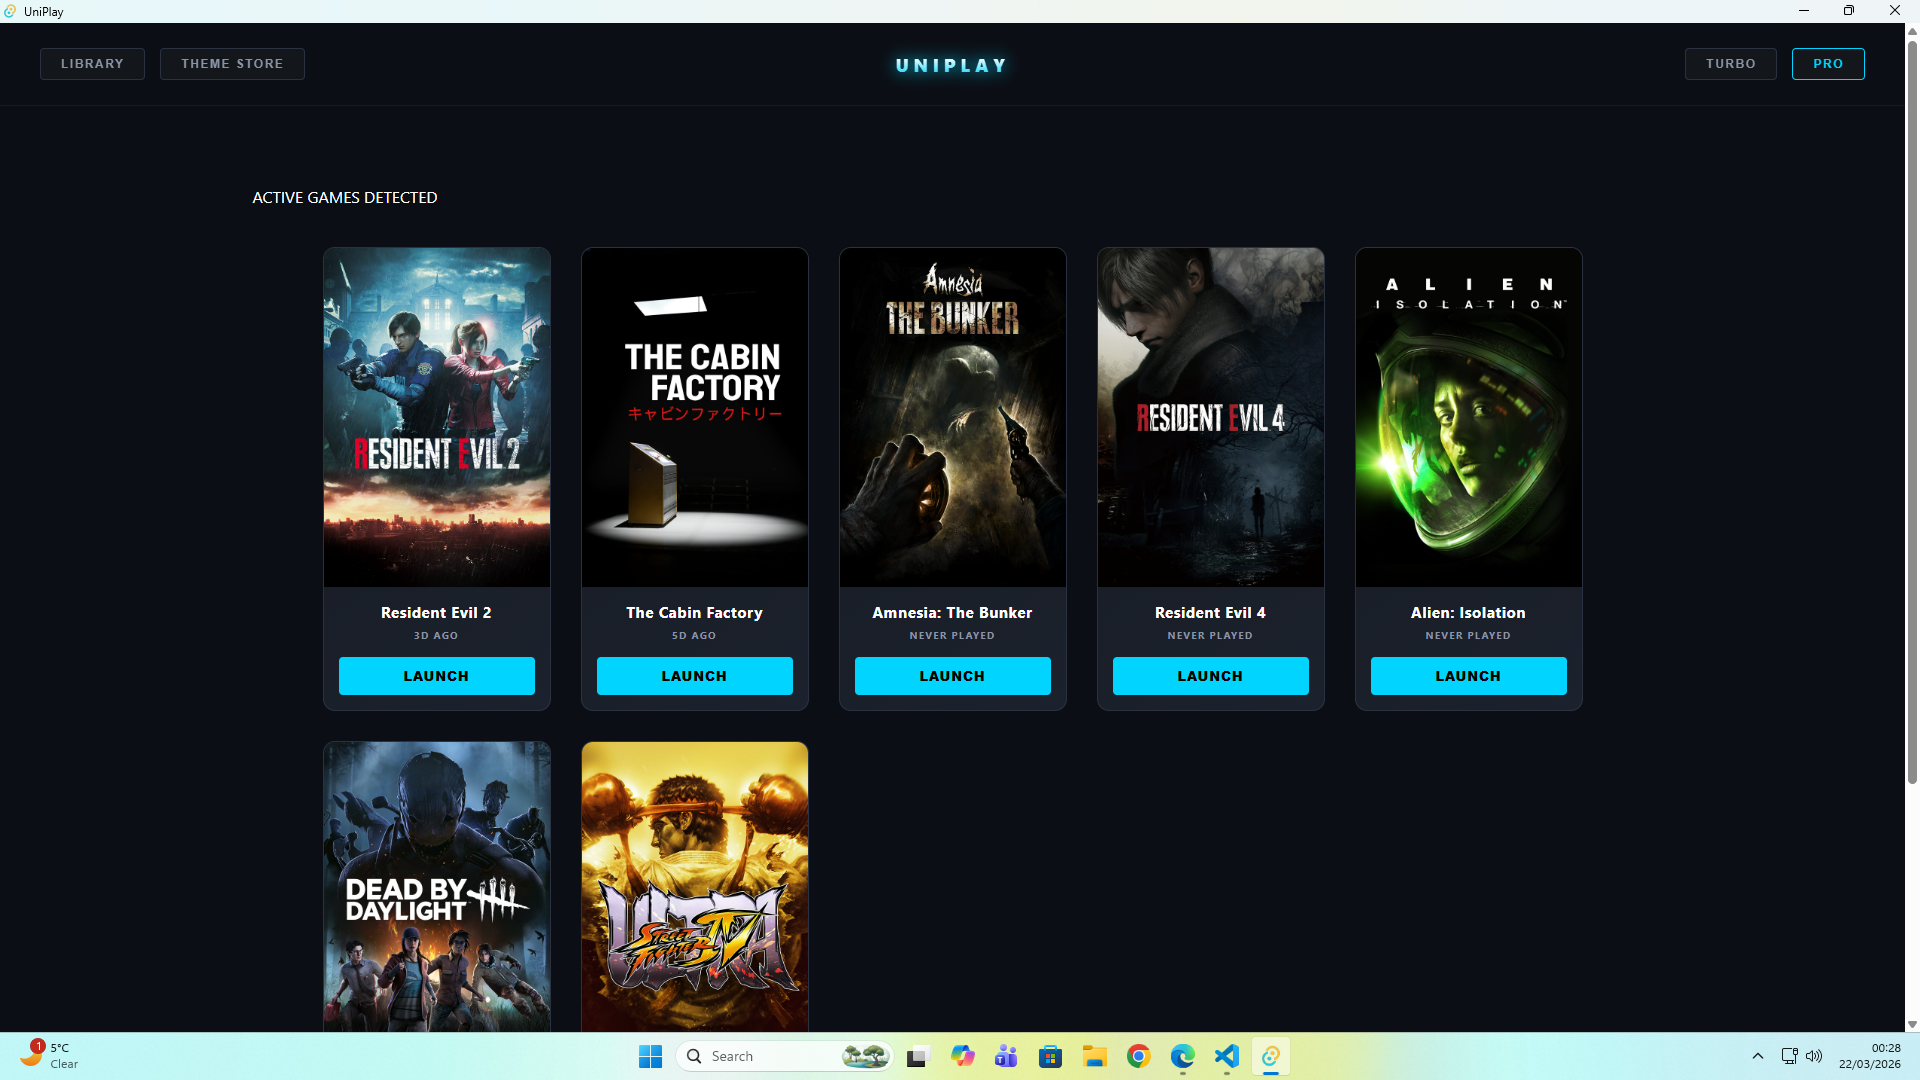
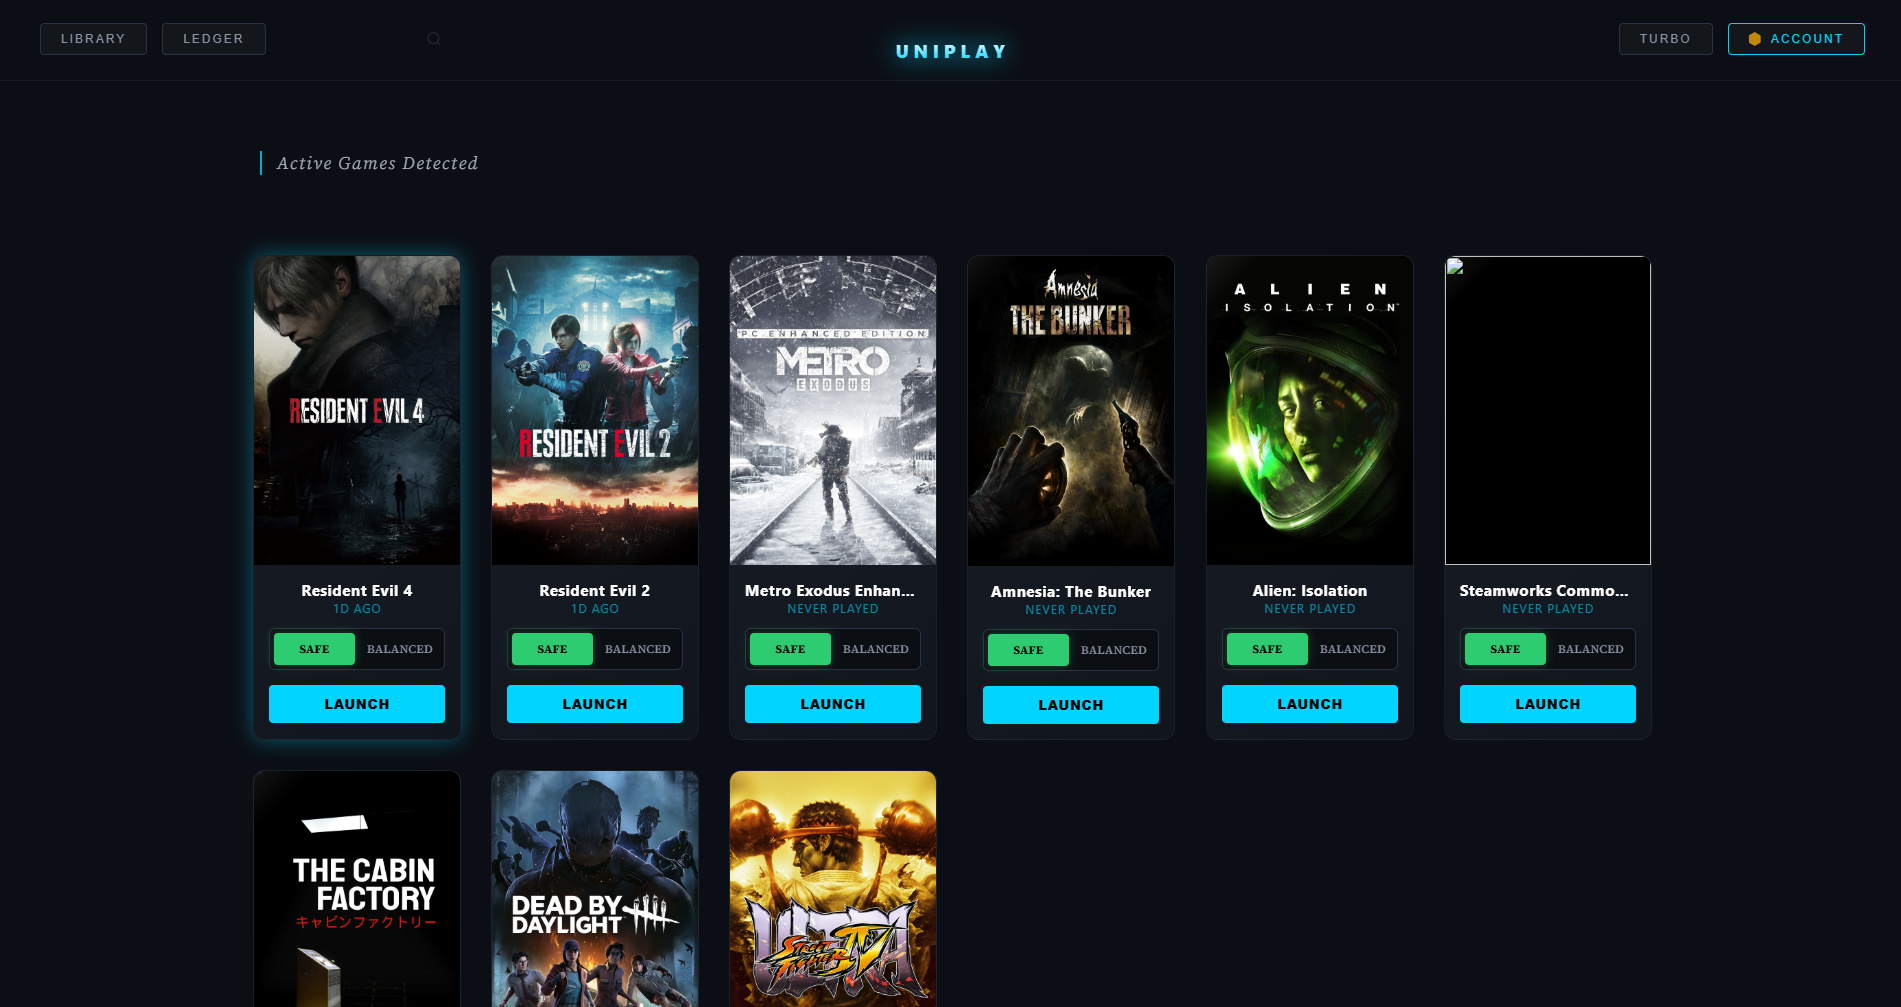
Update: Removed Vault logic, updated Pro feature parity, and refreshed dashboard visuals

diff --git a/privacy.html b/privacy.html
@@ -3,80 +3,83 @@
 <head>
     <meta charset="UTF-8">
     <meta name="viewport" content="width=device-width, initial-scale=1.0">
-    <title>UniPlay | Full Privacy Notice</title>
+    <title>UniPlay | Privacy Policy</title>
+    <link href="https://fonts.googleapis.com/css2?family=Source+Serif+4:ital,opsz,wght@0,8..60,200..900;1,8..60,200..900&family=Inter:wght@400;700;900&family=JetBrains+Mono&display=swap" rel="stylesheet">
     <style>
-        body { background-color: #0B0C10 !important; color: #C5C6C7; font-family: 'Inter', 'Segoe UI', sans-serif; line-height: 1.8; padding: 80px 20px; max-width: 850px; margin: 0 auto; }
-        h1 { color: #FFFFFF; font-size: 2.5rem; margin-bottom: 10px; }
-        h2 { color: #66FCF1; border-bottom: 1px solid rgba(102, 252, 241, 0.2); padding-bottom: 10px; margin-top: 50px; font-size: 1.4rem; text-transform: uppercase; letter-spacing: 1px; }
-        h3 { color: #FFFFFF; font-size: 1.1rem; margin-top: 30px; margin-bottom: 10px; }
-        p { margin-bottom: 20px; opacity: 0.9; }
-        strong { color: #FFFFFF; font-weight: 700; }
-        .back-link { color: #66FCF1; text-decoration: none; font-weight: bold; margin-bottom: 40px; display: inline-block; transition: 0.3s; }
+        body { 
+            background-color: #0b0e14; 
+            color: #8a94a6; 
+            font-family: 'Inter', sans-serif; 
+            line-height: 1.8; 
+            padding: 80px 20px; 
+            max-width: 800px; 
+            margin: 0 auto; 
+        }
+        h1, h2, h3 { font-family: 'Source Serif 4', serif; color: #fff; font-weight: 400; }
+        h1 { font-size: 3rem; margin-bottom: 40px; border-bottom: 1px solid rgba(255,255,255,0.1); padding-bottom: 20px; }
+        h2 { color: #00d4ff; font-style: italic; margin-top: 50px; border-bottom: 1px solid rgba(0, 212, 255, 0.1); padding-bottom: 10px; }
+        .back-link { color: #00d4ff; font-family: 'JetBrains Mono'; font-size: 0.8rem; text-transform: uppercase; text-decoration: none; margin-bottom: 40px; display: block; transition: 0.3s; }
         .back-link:hover { opacity: 0.7; }
-        ul { padding-left: 20px; margin-bottom: 25px; }
+        strong { color: #fff; }
+        ul { padding-left: 20px; }
         li { margin-bottom: 12px; }
-        .date { color: #45A29E; font-style: italic; margin-bottom: 40px; display: block; }
-        .box { background: #1F2833; padding: 20px; border-radius: 8px; border-left: 4px solid #66FCF1; margin: 20px 0; }
+        .date { color: #45A29E; font-style: italic; display: block; margin-bottom: 10px; }
+        .section-box { background: rgba(255, 255, 255, 0.02); padding: 30px; border-radius: 12px; border: 1px solid rgba(255, 255, 255, 0.05); margin: 30px 0; }
     </style>
 </head>
 <body>
     <a href="index.html" class="back-link">← Return to UniPlay</a>
-    <h1>Customer Privacy Notice</h1>
-    <span class="date">Last updated: March 30, 2026</span>
+    <h1>Privacy Policy</h1>
+    <span class="date">Last Updated: April 19, 2026</span>
 
-    <p>This privacy notice tells you what to expect us to do with your personal information. We are <strong>UniPlay LTD</strong>, registered in England and Wales.</p>
+    <p>This Privacy Policy explains how <strong>UniPlay LTD</strong> ("we," "us," or "our") collects, uses, and protects your information when you use the UniPlay desktop utility. We are committed to protecting your privacy in accordance with the <strong>UK General Data Protection Regulation (UK GDPR)</strong> and the Data Protection Act 2018.</p>
 
-    <h2>1. Contact Details</h2>
-    <p><strong>Post:</strong> Hoxton Mix Ltd, 86-90 Paul Street, LONDON, EC2A 4NE, GB</p>
-    <p><strong>Email:</strong> supportuniplay@gmail.com</p>
-
-    <h2>2. Information We Collect, Use, and Why</h2>
-    
-    <h3>Services and Goods</h3>
-    <p>We collect or use the following information to provide services, including software licensing:</p>
-    <ul>
-        <li>Names and contact details</li>
-        <li>Purchase or account history</li>
-        <li>Website user information (user journeys and cookie tracking)</li>
-    </ul>
-
-    <h3>Crime Prevention & Security</h3>
-    <p>We collect or use the following information to prevent, detect, or prosecute crimes (including IP theft and fraud):</p>
-    <ul>
-        <li>Names and contact information</li>
-        <li>Financial transaction information</li>
-        <li><strong>Publicly available Steam ID</strong></li>
-        <li><strong>Unique Hardware ID</strong></li>
-    </ul>
-
-    <h3>Legal Requirements & Claims</h3>
-    <p>We collect information to comply with legal obligations (tax/HMRC) and for dealing with queries or claims, including correspondence and financial records.</p>
-
-    <h2>3. Lawful Bases and Data Protection Rights</h2>
-    <p>Under UK GDPR, we rely on the following lawful bases:</p>
-    <ul>
-        <li><strong>Consent:</strong> Where you have given clear permission.</li>
-        <li><strong>Contract:</strong> Necessary to fulfill our agreement with you.</li>
-        <li><strong>Legal Obligation:</strong> Necessary to comply with the law.</li>
-        <li><strong>Legitimate Interests:</strong> Specifically protecting our intellectual property and providing customer support.</li>
-    </ul>
-
-    <div class="box">
-        <h3>Your Data Rights</h3>
-        <p>You have the right of <strong>access</strong>, <strong>rectification</strong>, <strong>erasure</strong>, <strong>restriction of processing</strong>, <strong>objection</strong>, and <strong>data portability</strong>. If we rely on consent, you can withdraw it at any time.</p>
+    <div class="section-box">
+        <h2>1. Information We Collect</h2>
+        <p>To provide high-performance optimization and analytics, we collect the following data:</p>
+        <ul>
+            <li><strong>Account Information:</strong> Name and email address provided during the purchase process via our Merchant of Record.</li>
+            <li><strong>Unique Hardware Identifier (UUID):</strong> A non-reversible hash of your hardware components used to verify license authenticity and prevent unauthorized distribution.</li>
+            <li><strong>Steam ID (Public):</strong> Used to synchronize game library metadata and provide per-game performance profiles.</li>
+            <li><strong>Technical Analytics:</strong> Data regarding RAM reclamation, process priority shifts, and session duration to populate your "Ledger" dashboard.</li>
+        </ul>
     </div>
 
-    <h2>4. Where We Get Information From</h2>
-    <p>Directly from you, and from third parties including <strong>Cookies/Analytics</strong> and our Merchant of Record, <strong>Lemon Squeezy</strong>, who provides transaction details following a purchase.</p>
+    <h2>2. Lawful Basis for Processing</h2>
+    <p>Under UK GDPR, we process your data based on the following legal grounds:</p>
+    <ul>
+        <li><strong>Contractual Necessity:</strong> To provide the Pro features (Analytics, Ledger, Profiles) you have subscribed to.</li>
+        <li><strong>Legitimate Interests:</strong> To protect our intellectual property (the Decoupled Bridge Architecture) and ensure software security via hardware-locked licensing.</li>
+    </ul>
 
-    <h2>5. Retention and Sharing</h2>
-    <p>We keep license data for the duration of your active license, financial records for <strong>6 years</strong> (HMRC), and support emails for <strong>2 years</strong>.</p>
-    <p>We share data with <strong>Lemon Squeezy, LLC</strong> in the <strong>United States</strong>. This transfer complies with UK law via the <strong>UK-US Data Bridge (Adequacy Regulations)</strong>.</p>
+    <h2>3. Data Retention & Third Parties</h2>
+    <p>We do not sell your data. We only share information with essential service providers:</p>
+    <ul>
+        <li><strong>Lemon Squeezy, LLC:</strong> Our Merchant of Record handles all payment processing. UniPlay LTD does not store or see your credit card or billing details.</li>
+        <li><strong>Security:</strong> Hardware IDs are stored as long as an account is active to prevent license fraud.</li>
+    </ul>
 
-    <h2>6. How to Complain</h2>
-    <p>If you have concerns, contact us first. You can also complain to the ICO:</p>
-    <p>Information Commissioner’s Office, Wycliffe House, Water Lane, Wilmslow, SK9 5AF</p>
-    <p>Helpline: 0303 123 1113 | Website: <a href="https://www.ico.org.uk/make-a-complaint" style="color: #66FCF1;">ico.org.uk</a></p>
+    <h2>4. Your Rights</h2>
+    <p>As a UK resident, you have the following rights regarding your data:</p>
+    <ul>
+        <li>The right to <strong>access</strong> the personal data we hold about you.</li>
+        <li>The right to <strong>rectification</strong> if your data is inaccurate.</li>
+        <li>The right to <strong>erasure</strong> ("right to be forgotten") of your account and associated analytics.</li>
+        <li>The right to <strong>restrict</strong> or object to certain processing activities.</li>
+    </ul>
 
+    <h2>5. Data Security</h2>
+    <p>Your analytics data is processed locally by the UniPlay Scout Thread (Rust) before being synchronized with your account. We implement industry-standard encryption to protect data in transit between the client and our servers.</p>
+
+    <h2>6. Contact & Controller</h2>
+    <p>UniPlay LTD is the data controller for your information.</p>
+    <p><strong>UniPlay LTD</strong><br>
+    Hoxton Mix Ltd, 86-90 Paul Street<br>
+    London, EC2A 4NE, United Kingdom<br>
+    Email: <strong>supportuniplay@gmail.com</strong></p>
+
+    <footer style="margin-top: 80px; opacity: 0.5; font-size: 0.8rem; text-align: center;">
+        <p>&copy; 2026 UniPlay LTD. Registered in England & Wales (No. 17099417).</p>
+    </footer>
 </body>
 </html>

diff --git a/tos.html b/tos.html
@@ -6,95 +6,73 @@
     <title>UniPlay | Terms of Service</title>
     <style>
         body { 
-            background-color: #0B0C10 !important; 
-            color: #C5C6C7; 
-            font-family: 'Inter', 'Segoe UI', sans-serif; 
+            background-color: #0b0e14; 
+            color: #8a94a6; 
+            font-family: 'Inter', sans-serif; 
             line-height: 1.8; 
             padding: 80px 20px; 
-            max-width: 850px; 
+            max-width: 800px; 
             margin: 0 auto; 
         }
-        h1 { color: #FFFFFF; font-size: 2.5rem; margin-bottom: 10px; }
-        h2 { 
-            color: #66FCF1; 
-            border-bottom: 1px solid rgba(102, 252, 241, 0.2); 
-            padding-bottom: 10px; 
-            margin-top: 50px; 
-            font-size: 1.4rem; 
-            text-transform: uppercase; 
-            letter-spacing: 1px; 
-        }
-        h3 { color: #FFFFFF; font-size: 1.1rem; margin-top: 30px; margin-bottom: 10px; }
-        p { margin-bottom: 20px; opacity: 0.9; }
-        strong { color: #FFFFFF; font-weight: 700; }
-        .back-link { color: #66FCF1; text-decoration: none; font-weight: bold; margin-bottom: 40px; display: inline-block; transition: 0.3s; }
+        h1, h2, h3 { font-family: 'Source Serif 4', serif; color: #fff; font-weight: 400; }
+        h1 { font-size: 3rem; margin-bottom: 40px; border-bottom: 1px solid rgba(255,255,255,0.1); padding-bottom: 20px; }
+        h2 { color: #00d4ff; font-style: italic; margin-top: 50px; border-bottom: 1px solid rgba(0, 212, 255, 0.1); padding-bottom: 10px; }
+        h3 { color: #FFFFFF; font-size: 1.1rem; margin-top: 30px; }
+        .back-link { color: #00d4ff; font-family: 'JetBrains Mono'; font-size: 0.8rem; text-transform: uppercase; text-decoration: none; margin-bottom: 40px; display: block; transition: 0.3s; }
         .back-link:hover { opacity: 0.7; }
-        ul { padding-left: 20px; margin-bottom: 25px; }
-        li { margin-bottom: 12px; }
-        .date { color: #45A29E; font-style: italic; margin-bottom: 40px; display: block; }
+        strong { color: #fff; }
         .alert-box { 
-            background: rgba(102, 252, 241, 0.05); 
+            background: rgba(0, 212, 255, 0.05); 
             padding: 25px; 
             border-radius: 8px; 
-            border: 1px solid rgba(102, 252, 241, 0.2); 
+            border: 1px solid rgba(0, 212, 255, 0.2); 
             margin: 30px 0; 
         }
+        ul { padding-left: 20px; }
+        li { margin-bottom: 10px; }
+        .date { color: #45A29E; font-style: italic; display: block; margin-bottom: 10px; }
     </style>
 </head>
 <body>
     <a href="index.html" class="back-link">← Return to UniPlay</a>
     <h1>Terms of Service</h1>
-    <span class="date">Last Updated: April 2, 2026</span>
+    <span class="date">Last Updated: April 19, 2026</span>
 
-    <p>Welcome to UniPlay. These Terms of Service ("Terms") govern your use of the UniPlay desktop utility and services (the "Service"), operated by <strong>UniPlay LTD</strong> ("Company," "we," "us," or "our"), a company registered in England and Wales (Company No. 17099417).</p>
-    
     <div class="alert-box">
-        <p><strong>Agreement:</strong> By accessing or using the Service, you agree to be bound by these Terms. If you do not agree, please cease use of the Service immediately.</p>
+        <p><strong>Agreement:</strong> Welcome to UniPlay. These Terms of Service ("Terms") govern your use of the UniPlay desktop utility operated by <strong>UniPlay LTD</strong> (Company No. 17099417), registered in England and Wales. By accessing the Service, you agree to be bound by these Terms.</p>
     </div>
 
     <h2>1. The Service</h2>
-    <p>UniPlay provides a high-performance gaming library utility featuring technical optimizations (the "Scout Thread"), CSS-based UI customization ("Theme Store"), and digital reward systems ("Rarity Drops").</p>
+    <p>UniPlay provides a high-performance gaming utility featuring resource optimization (the "Scout Thread"), advanced system-level analytics (the "Ledger"), and per-game performance profiles.</p>
 
-    <h2>2. UniPlay Pro Subscriptions</h2>
-    <p>We offer UniPlay Pro via both Monthly and Lifetime subscription tiers. Both tiers provide identical access to the following premium features:</p>
+    <h2>2. Subscription Tiers & Feature Parity</h2>
+    <p>We offer Pro access via <strong>Monthly</strong> (recurring) and <strong>Lifetime</strong> (one-time) tiers. Both tiers unlock <strong>identical premium features</strong>, including:</p>
     <ul>
-        <li><strong>Custom System Themes:</strong> Access to a curated library of advanced technical visual styles and UI enhancements.</li>
-        <li><strong>Enhanced Reward Rates:</strong> A statistical multiplier applied to the UniPlay Drop Table, increasing the probability of receiving Rare, Epic, and Sovereign tier UI modifications.</li>
+        <li><strong>Advanced Ledger Analytics:</strong> Granular data on system resource reclamation and hardware efficiency.</li>
+        <li><strong>Per-Game Profiles:</strong> Customized optimization settings for individual titles in your library.</li>
+        <li><strong>Session History:</strong> Comprehensive tracking of performance gains and playtime.</li>
+        <li><strong>Account Status:</strong> Recognition of Sovereign status within the UniPlay interface.</li>
     </ul>
 
-    <h2>3. Reward Systems & Social Features</h2>
-    <h3>Nature of Rewards</h3>
-    <p>UniPlay "Drops" (Accent Colors, Custom Icons, Animated UI States) are digital-only cosmetic enhancements for the UniPlay interface. They have no real-world monetary value.</p>
-    
-    <h3>Probability & Steam ID</h3>
-    <p>By using the Service, you acknowledge that rewards are distributed via a randomized system. "Pro" status increases these probabilities but does not guarantee specific results. To facilitate social features and reward verification, UniPlay may utilize your <strong>publicly available Steam ID</strong>. No private Steam credentials or payment data are ever accessed or stored by UniPlay LTD.</p>
-    
-    <h3>Social Sharing</h3>
-    <p>Users may use the "Vault" system to equip rewards and share their "High-Status" visual recognition with friends. Harassment or abuse of social sharing features is grounds for account termination.</p>
-
-    <h2>4. Payments and Merchant of Record</h2>
+    <h2>3. Payments and Merchant of Record</h2>
     <p>All payments are processed via <strong>Lemon Squeezy, LLC</strong> (the "Merchant of Record").</p>
     <ul>
-        <li><strong>Billing:</strong> You agree to the pricing presented at checkout. Monthly subscriptions recur automatically until cancelled.</li>
-        <li><strong>Refund Policy:</strong> Due to the digital nature of CSS themes and the immediate application of drop-rate multipliers, we offer a <strong>7-day technical guarantee</strong> only if the software fails to launch. Once "Pro" features are consumed or "Drops" are generated, refunds are at our sole discretion.</li>
+        <li><strong>Billing:</strong> Monthly subscriptions recur automatically until cancelled via the Account Hub.</li>
+        <li><strong>Refund Policy:</strong> Due to the immediate application of performance optimizations and cloud-synced data tracking, we offer a 7-day technical guarantee only if the software fails to provide core functionality.</li>
+        <li><strong>Statutory Waiver:</strong> By purchasing a subscription, you consent to immediate access to digital content and acknowledge that your 14-day right to cancel under consumer regulations is waived once the service has begun.</li>
     </ul>
-    
-    <p><strong>Statutory Waiver:</strong> By clicking 'Buy' or 'Subscribe', you consent to immediate access to digital content and acknowledge that your 14-day right to cancel under consumer regulations is waived once the service has begun.</p>
 
-    <h2>5. Intellectual Property</h2>
-    <p><strong>Ownership:</strong> All software code (Rust/Tauri), CSS Theme architectures, and proprietary assets are the exclusive property of UniPlay LTD. You may not modify, redistribute, or reverse-engineer the "Scout Thread" or the Theme Store logic.</p>
+    <h2>4. Intellectual Property</h2>
+    <p>All software code (Rust/Tauri), technical architectures, and proprietary assets are the exclusive property of UniPlay LTD. You may not modify, redistribute, or reverse-engineer the "Scout Thread" or the analytics logic.</p>
 
-    <h2>6. Limitation of Liability</h2>
-    <p>UniPlay LTD is not liable for any indirect damages or hardware performance issues. Our total liability is limited to the amount paid for the Service in the last 12 months.</p>
+    <h2>5. Limitation of Liability</h2>
+    <p>UniPlay LTD is not liable for indirect damages or hardware-specific performance issues. Our total liability is limited to the amount paid for the Service in the last 12 months.</p>
 
-    <h2>7. Governing Law</h2>
+    <h2>6. Governing Law</h2>
     <p>These Terms are governed by the laws of <strong>England and Wales</strong>. Disputes shall be subject to the exclusive jurisdiction of the courts in London, United Kingdom.</p>
 
-    <h2>8. Contact</h2>
-    <p><strong>UniPlay LTD</strong><br>
-    Hoxton Mix Ltd, 86-90 Paul Street<br>
-    London, EC2A 4NE, United Kingdom<br>
-    Email: <strong>supportuniplay@gmail.com</strong></p>
-
+    <footer style="margin-top: 80px; opacity: 0.5; font-size: 0.8rem; text-align: center;">
+        <p>&copy; 2026 UniPlay LTD. Hoxton Mix Ltd, 86-90 Paul Street, London, EC2A 4NE.</p>
+    </footer>
 </body>
 </html>
